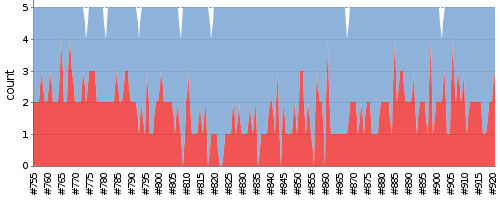
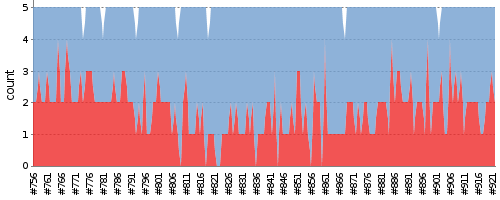
update report

diff --git a/index.md b/index.md
@@ -1,7 +1,7 @@
 ---
 layout: default
 ---
-Last update : 2016/01/24 17:59:06
+Last update : 2016/01/24 18:59:07
   
 ### Job Summary
 ___
@@ -111,11 +111,12 @@ ___
 ___
 #### Build Stability
 ![Jenkins Icon](http://jenkinshrg.github.io/images/48x48/health-00to19.png)
-6%
+5%
   
 #### Build History
 |Status|Time|Duration|Inspection|Test|Coverage|Changes|Build|Console|Image|Video|Note|
 |---|---|---|---|---|---|---|---|---|---|---|---|---|
+|![Jenkins Icon](http://jenkinshrg.github.io/images/24x24/yellow.png)UNSTABLE|2016/01/24 18:00|49 min.||2 err.|||[openhrp3.log](https://drive.google.com/file/d/0B54sHwaxmuM4Z19uY2pCaGNnWFU/view?usp=drivesdk)<br>[hrpsys-base.log](https://drive.google.com/file/d/0B54sHwaxmuM4ZVJqSldCWGYzMHM/view?usp=drivesdk)<br>[HRP2.log](https://drive.google.com/file/d/0B54sHwaxmuM4dzNVV1VORlF2em8/view?usp=drivesdk)<br>[HRP2DRC.log](https://drive.google.com/file/d/0B54sHwaxmuM4MHNaUGlJVVNOeWc/view?usp=drivesdk)<br>[hmc2.log](https://drive.google.com/file/d/0B54sHwaxmuM4WmpON2dEaW1mbWc/view?usp=drivesdk)<br>[hrpsys-humanoid.log](https://drive.google.com/file/d/0B54sHwaxmuM4bzl4WnAxM01sM2c/view?usp=drivesdk)<br>[hrpsys-private.log](https://drive.google.com/file/d/0B54sHwaxmuM4TUJuN2NXOGhfX2c/view?usp=drivesdk)<br>[choreonoid.log](https://drive.google.com/file/d/0B54sHwaxmuM4cVVUVGZvZHQwa1k/view?usp=drivesdk)<br>|[jenkinshrg.txt](https://drive.google.com/file/d/0B54sHwaxmuM4Snc0akNkXzJSUlk/view?usp=drivesdk)<br>[testbed-terrain.txt](https://drive.google.com/file/d/0B54sHwaxmuM4czl2UmZlSUpuNHM/view?usp=drivesdk)<br>[drc-valves.txt](https://drive.google.com/file/d/0B54sHwaxmuM4TXBNd28tMjFPems/view?usp=drivesdk)<br>[drc-wall-testbed.txt](https://drive.google.com/file/d/0B54sHwaxmuM4a2VNV2RpX0RSdjg/view?usp=drivesdk)<br>[irex-balance-beam-auto.txt](https://drive.google.com/file/d/0B54sHwaxmuM4a3F4XzdrckU5ZEE/view?usp=drivesdk)<br>|[jenkinshrg.png](https://drive.google.com/file/d/0B54sHwaxmuM4TVpjX05pZVdYeVE/view?usp=drivesdk)<br>[testbed-terrain.png](https://drive.google.com/file/d/0B54sHwaxmuM4Sng0VFZyUmp4V00/view?usp=drivesdk)<br>[drc-valves.png](https://drive.google.com/file/d/0B54sHwaxmuM4c1NpX1VQQk1JUUk/view?usp=drivesdk)<br>[drc-wall-testbed.png](https://drive.google.com/file/d/0B54sHwaxmuM4N2pjQUJUNDZVNlk/view?usp=drivesdk)<br>[irex-balance-beam-auto.png](https://drive.google.com/file/d/0B54sHwaxmuM4LUJ1SXItcktZSlk/view?usp=drivesdk)<br>|[jenkinshrg.ogv](https://drive.google.com/file/d/0B54sHwaxmuM4LUs4TUVLNXpNYzA/view?usp=drivesdk)<br>[testbed-terrain.ogv](https://drive.google.com/file/d/0B54sHwaxmuM4UU5TRkx2Nmo5SUE/view?usp=drivesdk)<br>[drc-valves.ogv](https://drive.google.com/file/d/0B54sHwaxmuM4eVh1R2lUUXRFb3M/view?usp=drivesdk)<br>[drc-wall-testbed.ogv](https://drive.google.com/file/d/0B54sHwaxmuM4c19zcHExWWZmSFk/view?usp=drivesdk)<br>[irex-balance-beam-auto.ogv](https://drive.google.com/file/d/0B54sHwaxmuM4QzdIN1hzUHdQRjg/view?usp=drivesdk)<br>||
 |![Jenkins Icon](http://jenkinshrg.github.io/images/24x24/yellow.png)UNSTABLE|2016/01/24 17:00|49 min.||3 err.|||[openhrp3.log](https://drive.google.com/file/d/0B54sHwaxmuM4M2FUMXJ3UlNMYnc/view?usp=drivesdk)<br>[hrpsys-base.log](https://drive.google.com/file/d/0B54sHwaxmuM4SGlweElXMDVIaGc/view?usp=drivesdk)<br>[HRP2.log](https://drive.google.com/file/d/0B54sHwaxmuM4MzVxc3JsZm11Rm8/view?usp=drivesdk)<br>[HRP2DRC.log](https://drive.google.com/file/d/0B54sHwaxmuM4MjA3MlhtV19VS1k/view?usp=drivesdk)<br>[hmc2.log](https://drive.google.com/file/d/0B54sHwaxmuM4YndnZDBic1hqSUU/view?usp=drivesdk)<br>[hrpsys-humanoid.log](https://drive.google.com/file/d/0B54sHwaxmuM4ajdISDJvTU9pNXM/view?usp=drivesdk)<br>[hrpsys-private.log](https://drive.google.com/file/d/0B54sHwaxmuM4T3liRkNvd3plRXM/view?usp=drivesdk)<br>[choreonoid.log](https://drive.google.com/file/d/0B54sHwaxmuM4eDA3TUROWUZsOTQ/view?usp=drivesdk)<br>|[jenkinshrg.txt](https://drive.google.com/file/d/0B54sHwaxmuM4VXdKd04tUU8yVDA/view?usp=drivesdk)<br>[testbed-terrain.txt](https://drive.google.com/file/d/0B54sHwaxmuM4eVNkX3FFbXVCVjg/view?usp=drivesdk)<br>[drc-valves.txt](https://drive.google.com/file/d/0B54sHwaxmuM4dGhpUG9ZWk5NcE0/view?usp=drivesdk)<br>[drc-wall-testbed.txt](https://drive.google.com/file/d/0B54sHwaxmuM4aWQyeTBVSG5zN1U/view?usp=drivesdk)<br>[irex-balance-beam-auto.txt](https://drive.google.com/file/d/0B54sHwaxmuM4c3NqcUc1akoxNjg/view?usp=drivesdk)<br>|[jenkinshrg.png](https://drive.google.com/file/d/0B54sHwaxmuM4RFlMekUwSkpGREE/view?usp=drivesdk)<br>[testbed-terrain.png](https://drive.google.com/file/d/0B54sHwaxmuM4SWNqRzJ6dzA4b2c/view?usp=drivesdk)<br>[drc-valves.png](https://drive.google.com/file/d/0B54sHwaxmuM4cnVhcldYRTAyOUU/view?usp=drivesdk)<br>[drc-wall-testbed.png](https://drive.google.com/file/d/0B54sHwaxmuM4eWlvQUlnWWtOWTA/view?usp=drivesdk)<br>[irex-balance-beam-auto.png](https://drive.google.com/file/d/0B54sHwaxmuM4MVRtZF9hR05wUGs/view?usp=drivesdk)<br>|[jenkinshrg.ogv](https://drive.google.com/file/d/0B54sHwaxmuM4eXFuY20wU3JKT1U/view?usp=drivesdk)<br>[testbed-terrain.ogv](https://drive.google.com/file/d/0B54sHwaxmuM4bXVhaUdVZDVYSms/view?usp=drivesdk)<br>[drc-valves.ogv](https://drive.google.com/file/d/0B54sHwaxmuM4MDdsR0Z4NUxYRTQ/view?usp=drivesdk)<br>[drc-wall-testbed.ogv](https://drive.google.com/file/d/0B54sHwaxmuM4cFlMUkdWTmZSeDg/view?usp=drivesdk)<br>[irex-balance-beam-auto.ogv](https://drive.google.com/file/d/0B54sHwaxmuM4ZkJZMjRlOUZ1Z00/view?usp=drivesdk)<br>||
 |![Jenkins Icon](http://jenkinshrg.github.io/images/24x24/yellow.png)UNSTABLE|2016/01/24 16:00|49 min.||2 err.|||[openhrp3.log](https://drive.google.com/file/d/0B54sHwaxmuM4TzlPN3E5SVVRWWc/view?usp=drivesdk)<br>[hrpsys-base.log](https://drive.google.com/file/d/0B54sHwaxmuM4QjIyTGY5d1hmRmM/view?usp=drivesdk)<br>[HRP2.log](https://drive.google.com/file/d/0B54sHwaxmuM4M3ZUTHkyaURkeUk/view?usp=drivesdk)<br>[HRP2DRC.log](https://drive.google.com/file/d/0B54sHwaxmuM4VkdWbW51TmtheWM/view?usp=drivesdk)<br>[hmc2.log](https://drive.google.com/file/d/0B54sHwaxmuM4QTRucEZydG05dFk/view?usp=drivesdk)<br>[hrpsys-humanoid.log](https://drive.google.com/file/d/0B54sHwaxmuM4b2VBZThDZ1dDYnc/view?usp=drivesdk)<br>[hrpsys-private.log](https://drive.google.com/file/d/0B54sHwaxmuM4VFIwTDJjbXN1N1E/view?usp=drivesdk)<br>[choreonoid.log](https://drive.google.com/file/d/0B54sHwaxmuM4YUdLZVhxazFKTm8/view?usp=drivesdk)<br>|[jenkinshrg.txt](https://drive.google.com/file/d/0B54sHwaxmuM4NTFRWElkYVg1WEE/view?usp=drivesdk)<br>[testbed-terrain.txt](https://drive.google.com/file/d/0B54sHwaxmuM4WDBxWGNwY1duRlE/view?usp=drivesdk)<br>[drc-valves.txt](https://drive.google.com/file/d/0B54sHwaxmuM4YUZCbTZHckoyQkk/view?usp=drivesdk)<br>[drc-wall-testbed.txt](https://drive.google.com/file/d/0B54sHwaxmuM4NTlBdjlBOVREUm8/view?usp=drivesdk)<br>[irex-balance-beam-auto.txt](https://drive.google.com/file/d/0B54sHwaxmuM4U1Z6bFlqNG0wanc/view?usp=drivesdk)<br>|[jenkinshrg.png](https://drive.google.com/file/d/0B54sHwaxmuM4V1Nyd0RfaDVHeUE/view?usp=drivesdk)<br>[testbed-terrain.png](https://drive.google.com/file/d/0B54sHwaxmuM4YTF1TmZyUDNwblU/view?usp=drivesdk)<br>[drc-valves.png](https://drive.google.com/file/d/0B54sHwaxmuM4eks3dVU3T2o2WUk/view?usp=drivesdk)<br>[drc-wall-testbed.png](https://drive.google.com/file/d/0B54sHwaxmuM4M2Z2RTA0bVd5blU/view?usp=drivesdk)<br>[irex-balance-beam-auto.png](https://drive.google.com/file/d/0B54sHwaxmuM4ejdWWlZweDNpak0/view?usp=drivesdk)<br>|[jenkinshrg.ogv](https://drive.google.com/file/d/0B54sHwaxmuM4RTBFNzc0RTRQNUE/view?usp=drivesdk)<br>[testbed-terrain.ogv](https://drive.google.com/file/d/0B54sHwaxmuM4ZENkVzhVZTRMRkE/view?usp=drivesdk)<br>[drc-valves.ogv](https://drive.google.com/file/d/0B54sHwaxmuM4X3ZtTTNtd3EtZkU/view?usp=drivesdk)<br>[drc-wall-testbed.ogv](https://drive.google.com/file/d/0B54sHwaxmuM4ZklRbGpwNWRMdmM/view?usp=drivesdk)<br>[irex-balance-beam-auto.ogv](https://drive.google.com/file/d/0B54sHwaxmuM4ekdYcGVmNzBQWlU/view?usp=drivesdk)<br>||
 |![Jenkins Icon](http://jenkinshrg.github.io/images/24x24/yellow.png)UNSTABLE|2016/01/24 15:00|48 min.||2 err.|||[openhrp3.log](https://drive.google.com/file/d/0B54sHwaxmuM4NzhIR25SRmZGQjA/view?usp=drivesdk)<br>[hrpsys-base.log](https://drive.google.com/file/d/0B54sHwaxmuM4emlZeFlneFlsQkE/view?usp=drivesdk)<br>[HRP2.log](https://drive.google.com/file/d/0B54sHwaxmuM4Z0s0MW1CMkVXUFk/view?usp=drivesdk)<br>[HRP2DRC.log](https://drive.google.com/file/d/0B54sHwaxmuM4UnRPM3VrSHF2LWc/view?usp=drivesdk)<br>[hmc2.log](https://drive.google.com/file/d/0B54sHwaxmuM4cnJKejdQRmhkc0k/view?usp=drivesdk)<br>[hrpsys-humanoid.log](https://drive.google.com/file/d/0B54sHwaxmuM4OUtfSmZWNEl1Rm8/view?usp=drivesdk)<br>[hrpsys-private.log](https://drive.google.com/file/d/0B54sHwaxmuM4dnJjSm85NUtzcEk/view?usp=drivesdk)<br>[choreonoid.log](https://drive.google.com/file/d/0B54sHwaxmuM4bHBaNGZBR1JYcFk/view?usp=drivesdk)<br>|[jenkinshrg.txt](https://drive.google.com/file/d/0B54sHwaxmuM4ZWozOWdwM1JDaEU/view?usp=drivesdk)<br>[testbed-terrain.txt](https://drive.google.com/file/d/0B54sHwaxmuM4QzFFUXltQmJhYVU/view?usp=drivesdk)<br>[drc-valves.txt](https://drive.google.com/file/d/0B54sHwaxmuM4VEdhcjRFSW5VSE0/view?usp=drivesdk)<br>[drc-wall-testbed.txt](https://drive.google.com/file/d/0B54sHwaxmuM4NFNvbnQzN1ZIWEk/view?usp=drivesdk)<br>[irex-balance-beam-auto.txt](https://drive.google.com/file/d/0B54sHwaxmuM4X3ptZU1rSDByekE/view?usp=drivesdk)<br>|[jenkinshrg.png](https://drive.google.com/file/d/0B54sHwaxmuM4MndCUi1MLTVrUDQ/view?usp=drivesdk)<br>[testbed-terrain.png](https://drive.google.com/file/d/0B54sHwaxmuM4YVZrVWU2YTFhWUE/view?usp=drivesdk)<br>[drc-valves.png](https://drive.google.com/file/d/0B54sHwaxmuM4YVVRRE5ZWkVDcTQ/view?usp=drivesdk)<br>[drc-wall-testbed.png](https://drive.google.com/file/d/0B54sHwaxmuM4YlVuc1VQUlhOWjA/view?usp=drivesdk)<br>[irex-balance-beam-auto.png](https://drive.google.com/file/d/0B54sHwaxmuM4aXNMUFFqeGkxSEE/view?usp=drivesdk)<br>|[jenkinshrg.ogv](https://drive.google.com/file/d/0B54sHwaxmuM4eE90X3RMTzRZdHc/view?usp=drivesdk)<br>[testbed-terrain.ogv](https://drive.google.com/file/d/0B54sHwaxmuM4T0t4N0g4M04zVjg/view?usp=drivesdk)<br>[drc-valves.ogv](https://drive.google.com/file/d/0B54sHwaxmuM4SnR0bGpKMDlreTQ/view?usp=drivesdk)<br>[drc-wall-testbed.ogv](https://drive.google.com/file/d/0B54sHwaxmuM4a1QzNGU0cjAza1U/view?usp=drivesdk)<br>[irex-balance-beam-auto.ogv](https://drive.google.com/file/d/0B54sHwaxmuM4X2hzaHBZejhuNFk/view?usp=drivesdk)<br>||
@@ -215,4 +216,3 @@ ___
 |![Jenkins Icon](http://jenkinshrg.github.io/images/24x24/yellow.png)UNSTABLE|2016/01/20 22:00|45 min.||1 err.||||||||
 |![Jenkins Icon](http://jenkinshrg.github.io/images/24x24/yellow.png)UNSTABLE|2016/01/20 21:00|46 min.||1 err.||||||||
 |![Jenkins Icon](http://jenkinshrg.github.io/images/24x24/blue.png)SUCCESS|2016/01/20 20:00|45 min.||0 err.||||||||
-|![Jenkins Icon](http://jenkinshrg.github.io/images/24x24/blue.png)SUCCESS|2016/01/20 19:00|47 min.||0 err.||||||||
